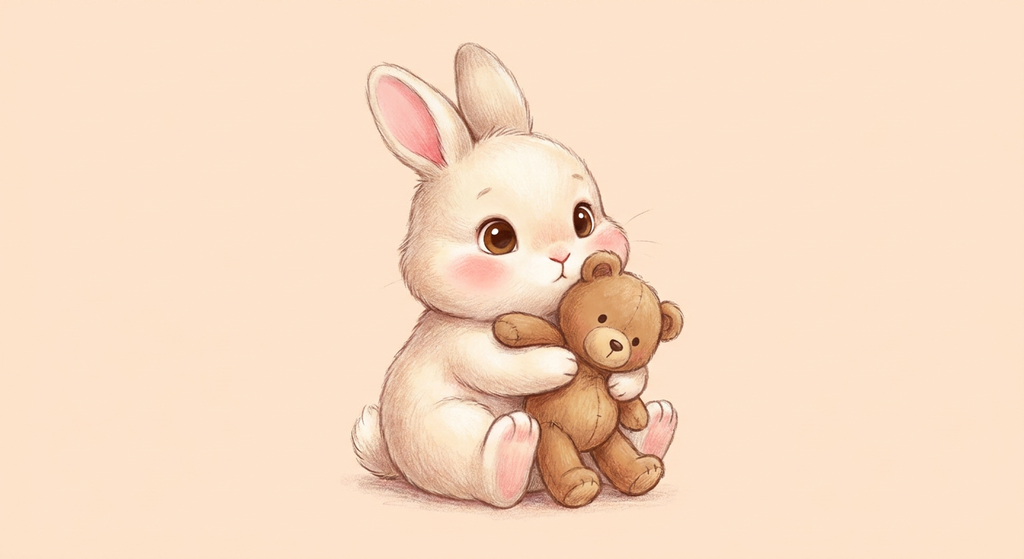
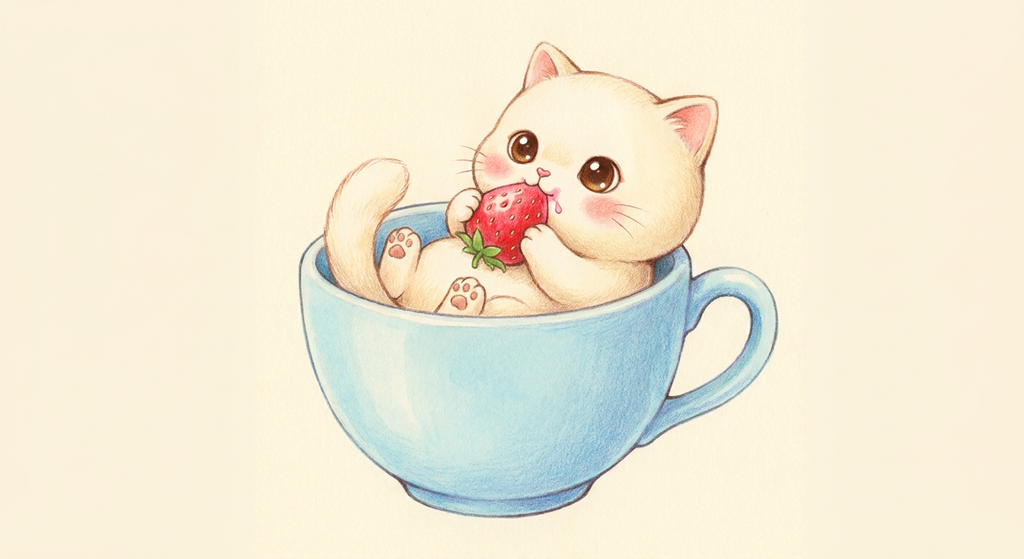
Better picture: kitten in a teacup with a strawberry

Changed region(s): [[0.2812, 0.0608, 0.7812, 0.9428]]

diff --git a/IMAGE.md b/IMAGE.md
@@ -1,7 +1,5 @@
-# entry.png
-
-A baby bunny hugging a teddy bear, 1024x559 PNG, made for make.fun competition cutest-picture-01.
-It was produced with an image model: several candidates were generated, compared pairwise by a vision judge, and the winner was kept.
-The winning file is committed unchanged as entry.png at the repo root.
-main.py locates it relative to __file__, reads the bytes, and writes them untouched to $MAKEFUN_OUTPUT_DIR (default /output) as entry.png.
-Nothing is generated at run time, so repeated runs write identical bytes (SHA-256 07249ec6...1f0de0).
+entry.png shows a tiny cream kitten sitting in an oversized pastel-blue teacup.
+The kitten holds a bright red strawberry in its paws and is taking a bite.
+It was generated by an image model, which produced several candidates.
+A vision judge compared the candidates pairwise, and this one was kept because it beat the previous bunny picture.
+main.py ships it unchanged, copying entry.png byte for byte to $MAKEFUN_OUTPUT_DIR (default /output).
